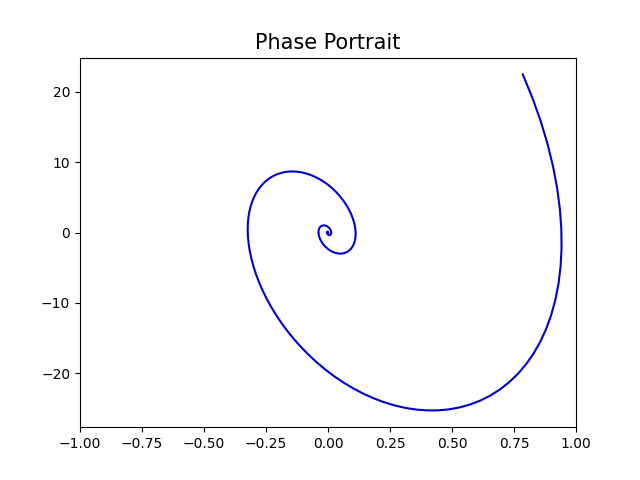
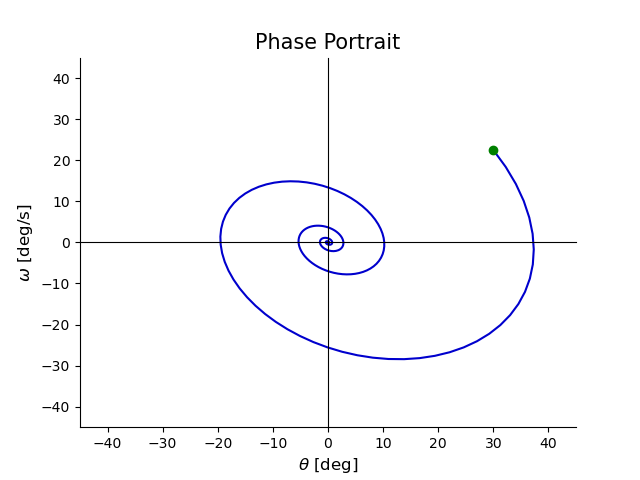
changed error definition and further cleaned plots

diff --git a/fsfb_model.py b/fsfb_model.py
@@ -1,2 +1,107 @@
+import numpy as np
+import matplotlib.pyplot as plt
+
 # turn notebook into functions & main()
 
+
+# Moment of Inertia
+I = 10000
+
+# FSFB GAINS
+k1 = 1000
+k2 = 0.05
+
+# INITIAL CONDITION
+theta_0 = np.pi/6 # rad
+omega_0 = np.pi/8 # rad/sec
+
+# define / initialize error
+# this is not used to 
+err = np.sqrt(theta_0**2 + omega_0**2)
+
+# initialize time and interval tracker
+t = np.array([0])
+dt = 0.1
+i = 0
+
+# initialize the states
+theta = np.array([theta_0])
+omega = np.array([omega_0])
+
+
+# main()
+
+while err > 0.001:
+
+    # calculate next state
+    next_theta = theta[i] + omega[i]*dt
+    next_omega = omega[i] + ( (-k1/I)*theta[i] - (k2*omega[i]) )
+
+    # add next state to array
+    theta = np.append(theta, next_theta)
+    omega = np.append(omega, next_omega)
+
+    # error = magnitude of current state
+    err = np.sqrt(theta[i]**2 + omega[i]**2)
+    
+    # next interval (i=0 is initial condition)
+    t = np.append(t, t[i]+dt)
+    i += 1
+
+    if t[i] > 10000:
+        print("It took too long!")
+        break
+
+print(f"Time to reach goal: {round(t[i], 4)} seconds")
+# print(f"Actuator effort spent {effort} Nm")
+
+# convert RAD & RAD/S --> DEG & DEG/S for plots
+theta_deg = theta*360/(2*np.pi)
+omega_deg_s = omega*360/(2*np.pi)
+
+
+# plot states over time
+fig, ax = plt.subplots(2, 1, figsize=[8,8])
+
+for axis in ax:
+    axis.set_ylim([-80, 80])
+
+ax[0].plot(t, theta_deg, 'r')
+ax[0].set_title("States over Time", fontsize=18)
+ax[0].set_ylabel(r"$\theta$ [deg]", fontsize=15)
+
+ax[1].plot(t, omega_deg_s, 'm')
+ax[1].set_title
+ax[1].set_ylabel(r"$\omega$ [deg/s]", fontsize=15)
+ax[1].set_xlabel("Time [sec]", fontsize=15)
+
+fig.savefig("figs/states_time")
+fig.show()
+
+# phase plot
+fig2, ax2 = plt.subplots(1)
+
+ax2.set_title("Phase Portrait", fontsize=15)
+ax2.plot(theta_deg, omega_deg_s, color='mediumblue')
+ax2.plot(theta_deg[0], omega_deg_s[0], 'g.', ms=12) # plot starting point
+
+# Move left y-axis and bottom x-axis to centre, passing through (0,0)
+ax2.spines['top'].set_position('center')
+ax2.spines['right'].set_position('center')
+
+# # Eliminate upper and right axes
+# ax2.spines['top'].set_color('none')
+# ax2.spines['right'].set_color('none')
+
+# # Show ticks in the left and lower axes only
+# ax2.xaxis.set_ticks_position('bottom')
+# ax2.yaxis.set_ticks_position('left')
+
+ax2.set_xlim([-45, 45])
+ax2.set_ylim([-45, 45])
+
+ax2.set_xlabel(r"$\theta$ [deg]", fontsize=12)
+ax2.set_ylabel(r"$\omega$ [deg/s]", fontsize=12)
+
+fig2.savefig("figs/phase_portrait")
+fig2.show()
